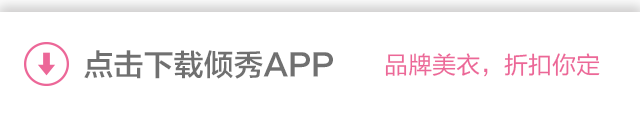
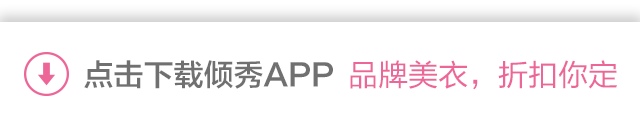
Update css

Changed region(s): [[0.0312, 0.3621, 0.9688, 0.7759], [0.0, 0.0517, 1.0, 0.181]]

diff --git a/app-web/src/main/css/style.css b/app-web/src/main/css/style.css
@@ -73,12 +73,12 @@ body {
 
 .p02-download {
     position: absolute;
-    background-image: url(../assets/slicing/p02/download.png);
+    background-image: url(../assets/slicing/p02/download.png?2015-08-24);
     background-size: contain;
     background-repeat: no-repeat;
     background-position: 0% 100%;
     bottom: 0;
-    height: 12%;
+    height: 20%;
     width: 100%;
     /*box-shadow: 0px -4px 12px #999;*/
 }
@@ -90,7 +90,7 @@ body {
 }
 
 .p02-image-slider-block-content {
-    padding-top: 6%;
+    padding-top: 3%;
     width: 100%;
 }
 
